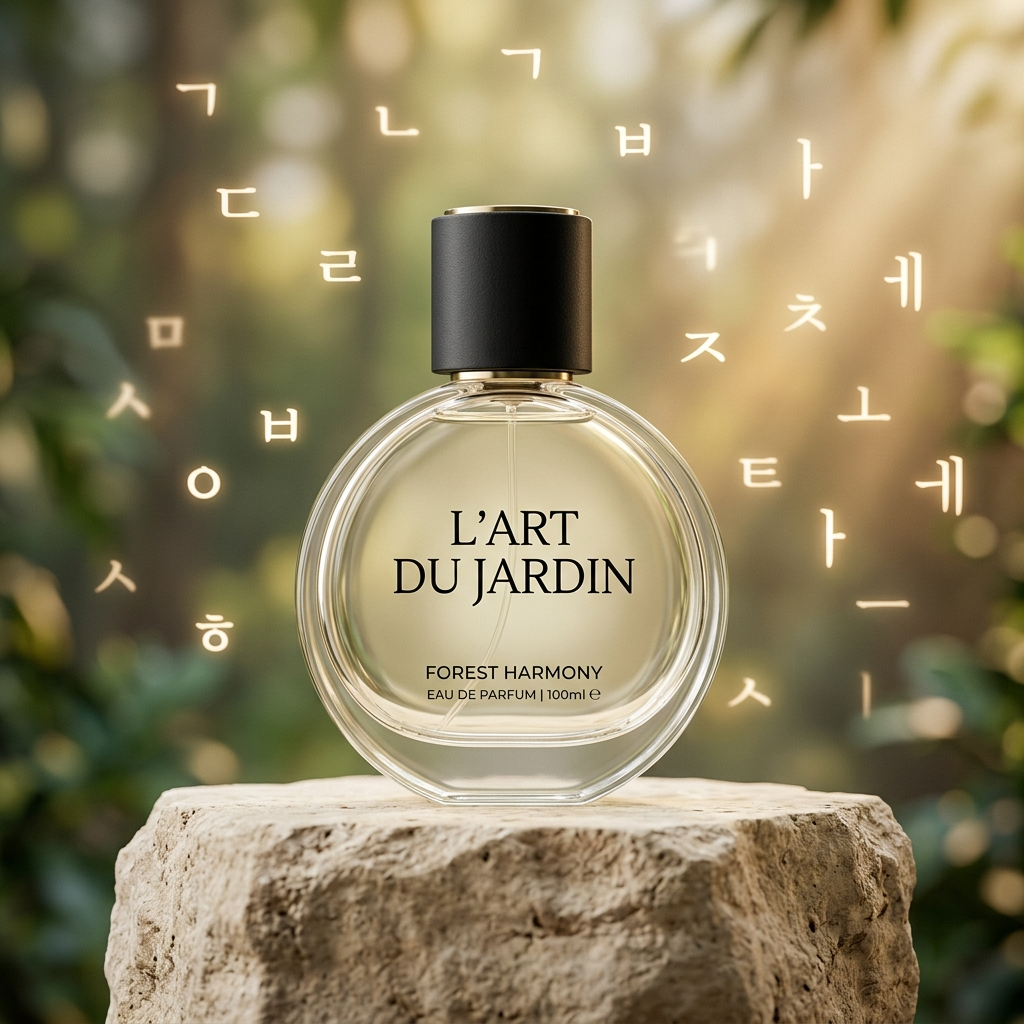
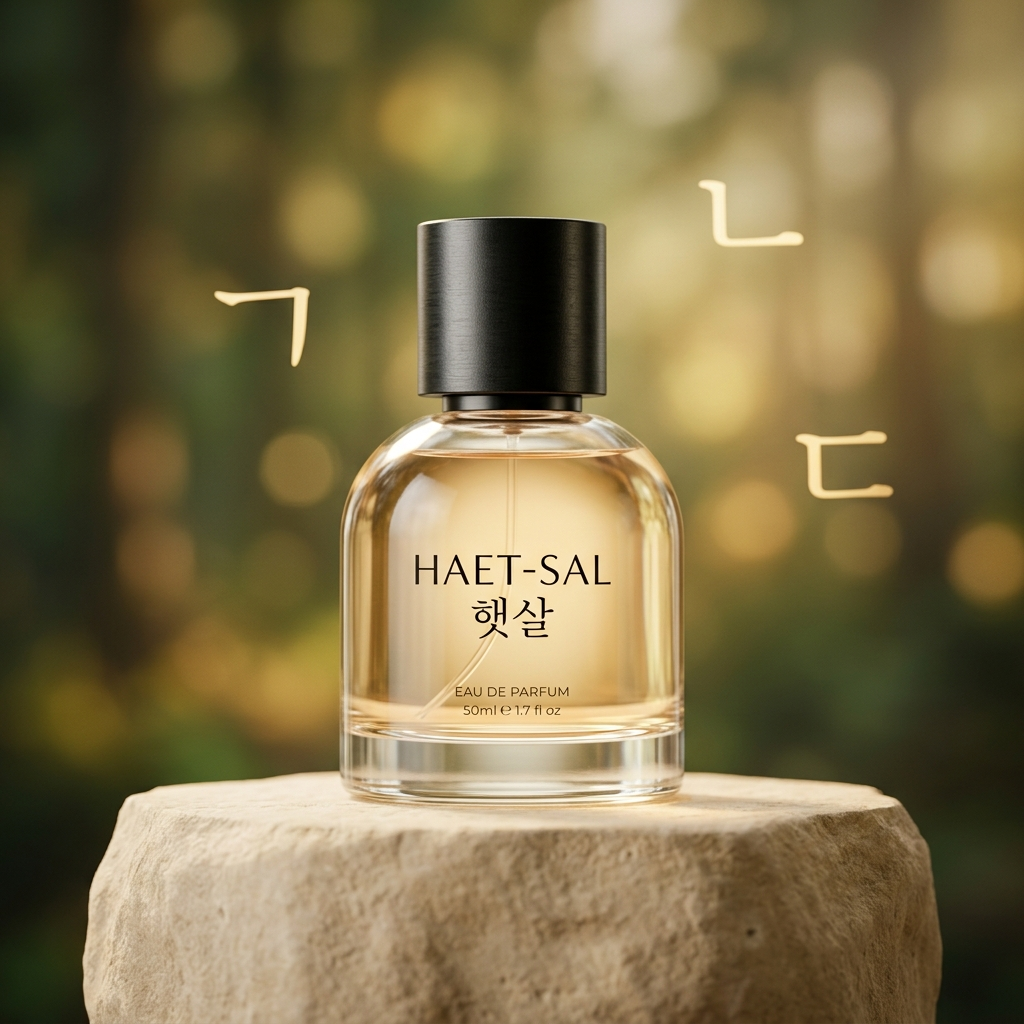
Update header subtitle and enlarge refined perfume image with only Hangul consonants ㄱ, ㄴ, ㄷ

diff --git a/src/app/App.tsx b/src/app/App.tsx
@@ -86,7 +86,7 @@ export default function App() {
               훈민향음 (訓民香音)
             </span>
             <span className="text-[10px] tracking-wider text-forest-300 font-serif">
-              L'atelier de Parfum
+              더 알
             </span>
           </div>
           
@@ -190,7 +190,7 @@ export default function App() {
                 <img 
                   src="/perfume_hunmin.png" 
                   alt="훈민향음 향수" 
-                  className="relative w-80 h-80 object-contain drop-shadow-2xl rounded-2xl hover:scale-[1.03] transition-transform duration-500" 
+                  className="relative w-[400px] h-80 object-cover rounded-2xl drop-shadow-2xl hover:scale-[1.02] transition-transform duration-500" 
                 />
               </div>
             </div>